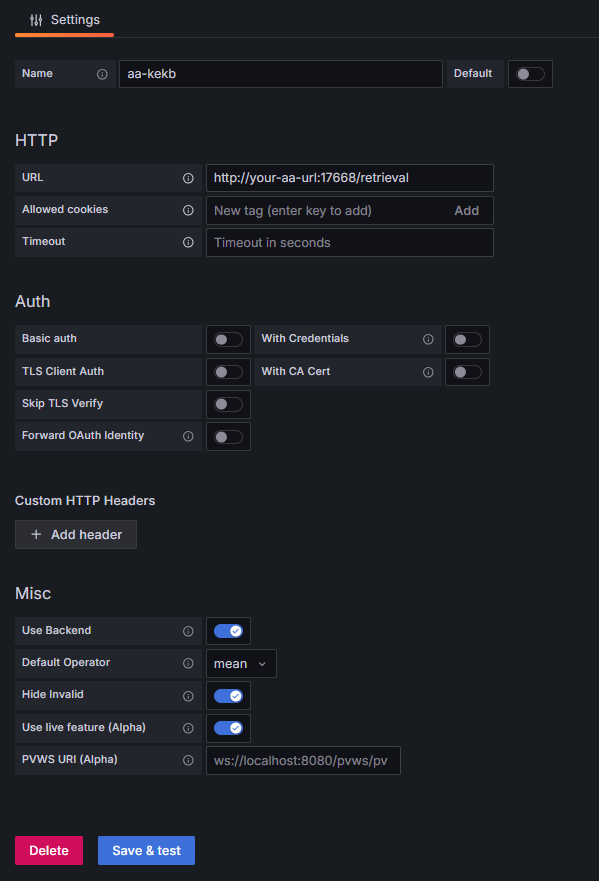
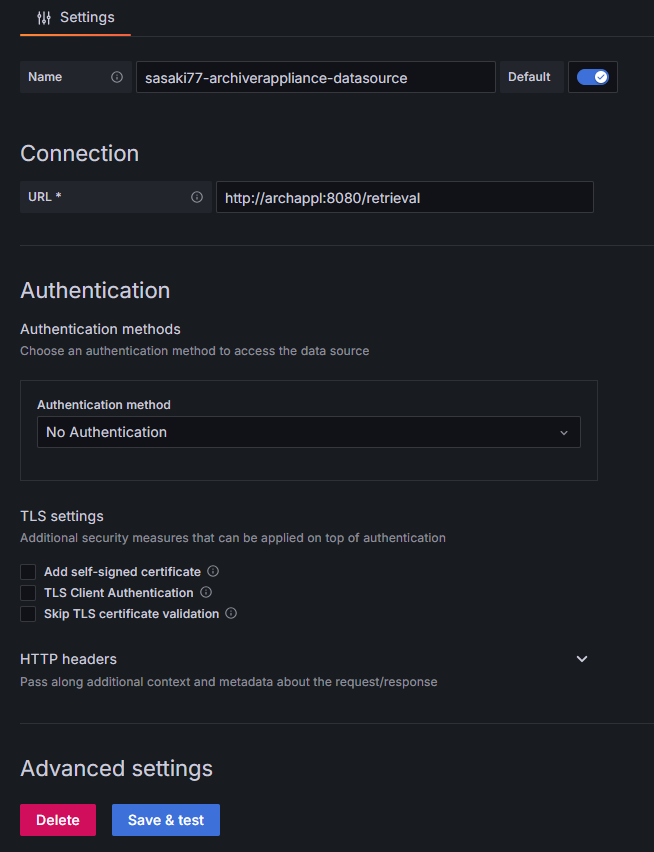
DOC: update configuration and development

diff --git a/README.md b/README.md
@@ -94,32 +94,35 @@ This data source plugin consists of both frontend and backend components.
 
 ### Front-end Development
 
-Node version v12.x is recommended. If you're new to the Node.js ecosystem, [Node Version Manager](https://github.com/nvm-sh/nvm) is a good place to start for managing different Node.js installations and environments.
+LTS version of Node.js is recommended. If you're new to the Node.js ecosystem, [Node Version Manager](https://github.com/nvm-sh/nvm) is a good place to start for managing different Node.js installations and environments.
 
-[grafana-toolkit](https://github.com/grafana/grafana/tree/master/packages/grafana-toolkit) is used to develop the plugin. Please refer grafana-toolkit documentation for more information.
+[Grafana's plugin tools](https://grafana.com/developers/plugin-tools/) is used to develop the plugin. Please refer the documentation for more information.
+
 
 1. Begin by installing Yarn (https://yarnpkg.com/)
-```bash
-npm install -g yarn
-```
+    ```bash
+    npm install -g yarn
+    ```
 
 2. Install dependencies
-```bash
-yarn install
-```
+    ```bash
+    yarn install
+    ```
 
 3. Build plugin in development mode or run in watch mode
-```bash
-yarn dev
-```
-or
-```bash
-yarn watch
-```
+    ```bash
+    yarn dev
+    ```
+
+    or
+
+    ```bash
+    yarn watch
+    ```
 4. Build plugin in production mode
-```bash
-yarn build
-```
+    ```bash
+    yarn build
+    ```
 
 ### Back-end Development
 
@@ -127,19 +130,19 @@ If the Mage build tool is not already installed, you may install it using the in
 
 1. Update [Grafana plugin SDK for Go](https://grafana.com/docs/grafana/latest/developers/plugins/backend/grafana-plugin-sdk-for-go/) dependency to the latest minor version:
 
-```bash
-go get -u github.com/grafana/grafana-plugin-sdk-go
-```
+    ```bash
+    go get -u github.com/grafana/grafana-plugin-sdk-go
+    ```
 
 2. Build backend plugin binaries for Linux, Windows and Darwin:
-```bash
-mage -v
-```
+    ```bash
+    mage -v
+    ```
 
 3. List all available Mage targets for additional commands:
-```bash
-mage -l
-```
+    ```bash
+    mage -l
+    ```
 
 ## Build documentation
 

diff --git a/docs/configuration.md b/docs/configuration.md
@@ -5,7 +5,7 @@ After installing plugin you can add Archiver Appliance datasource.
 To add Archiver Appliance datasource, follow the below steps.
 
 1. Open `Data Sources` in the side menu.
-2. Click `Add data source`.
+2. Click `Add new data source`.
 3. Select `ArchiverAppliacne` in the list.
 
 ![Add new datasrouce](./img/aa-configuration-add-datasource.png)
@@ -14,19 +14,33 @@ Please refer [How to add a data source](https://grafana.com/docs/grafana/latest/
 more information.
 
 ## Datasource Settings
+
 ![Datasrouce settings](./img/aa-configuration-datasource-settings.png)
 
-### HTTP
+### Connection
+
 - **URL:** sets `retrieval url` end with retrieval.
+
+### Authentication
+
+Basically, no need to configure.
+
+### Advanced settings
+
+![Advanced settings](./img/aa-configuration-datasource-advanced-settings.png)
+
+#### Advanced HTTP settings
+
 - **Allowed Cookies:** no need to configure.
 - **Timeout:** sets HTTP request timeout in seconds if you need.
 
-### Auth
-Basically, no need to configure.
+#### Data Retrieval Options
 
-### Misc
 - **Use Backend:** enables GO backend to retrieve the archive data for visualization. The archived data is retrieved and processed on Grafana server, then the data is sent to Grafana client.
 - **Default Operator:** controls the default operator for processing of data during data retrieval.
 - **Hide Invalid:** hides the sample data whose severity is invalid with a null value. This feature is only effective if you are using the backend data retrieval.
+
+#### Live Feature Options
+
 - **Use live feature:** enables live updating with PVWS WebSocket server.
 - **PVWS URI:** sets the URI for the PVWS WebSocket server.

diff --git a/docs/development.md b/docs/development.md
@@ -5,9 +5,9 @@ This data source plugin consists of both frontend and backend components.
 
 ### Front-end Development
 
-Node version v12.x is recommended. If you're new to the Node.js ecosystem, [Node Version Manager](https://github.com/nvm-sh/nvm) is a good place to start for managing different Node.js installations and environments.
+LTS version of Node.js is recommended. If you're new to the Node.js ecosystem, [Node Version Manager](https://github.com/nvm-sh/nvm) is a good place to start for managing different Node.js installations and environments.
 
-[grafana-toolkit](https://grafana.com/developers/plugin-tools/) is used to develop the plugin. Please refer grafana-toolkit documentation for more information.
+[Grafana's plugin tools](https://grafana.com/developers/plugin-tools/) is used to develop the plugin. Please refer the documentation for more information.
 
 1. Begin by installing Yarn ([https://yarnpkg.com/](https://yarnpkg.com/))
     ```bash
